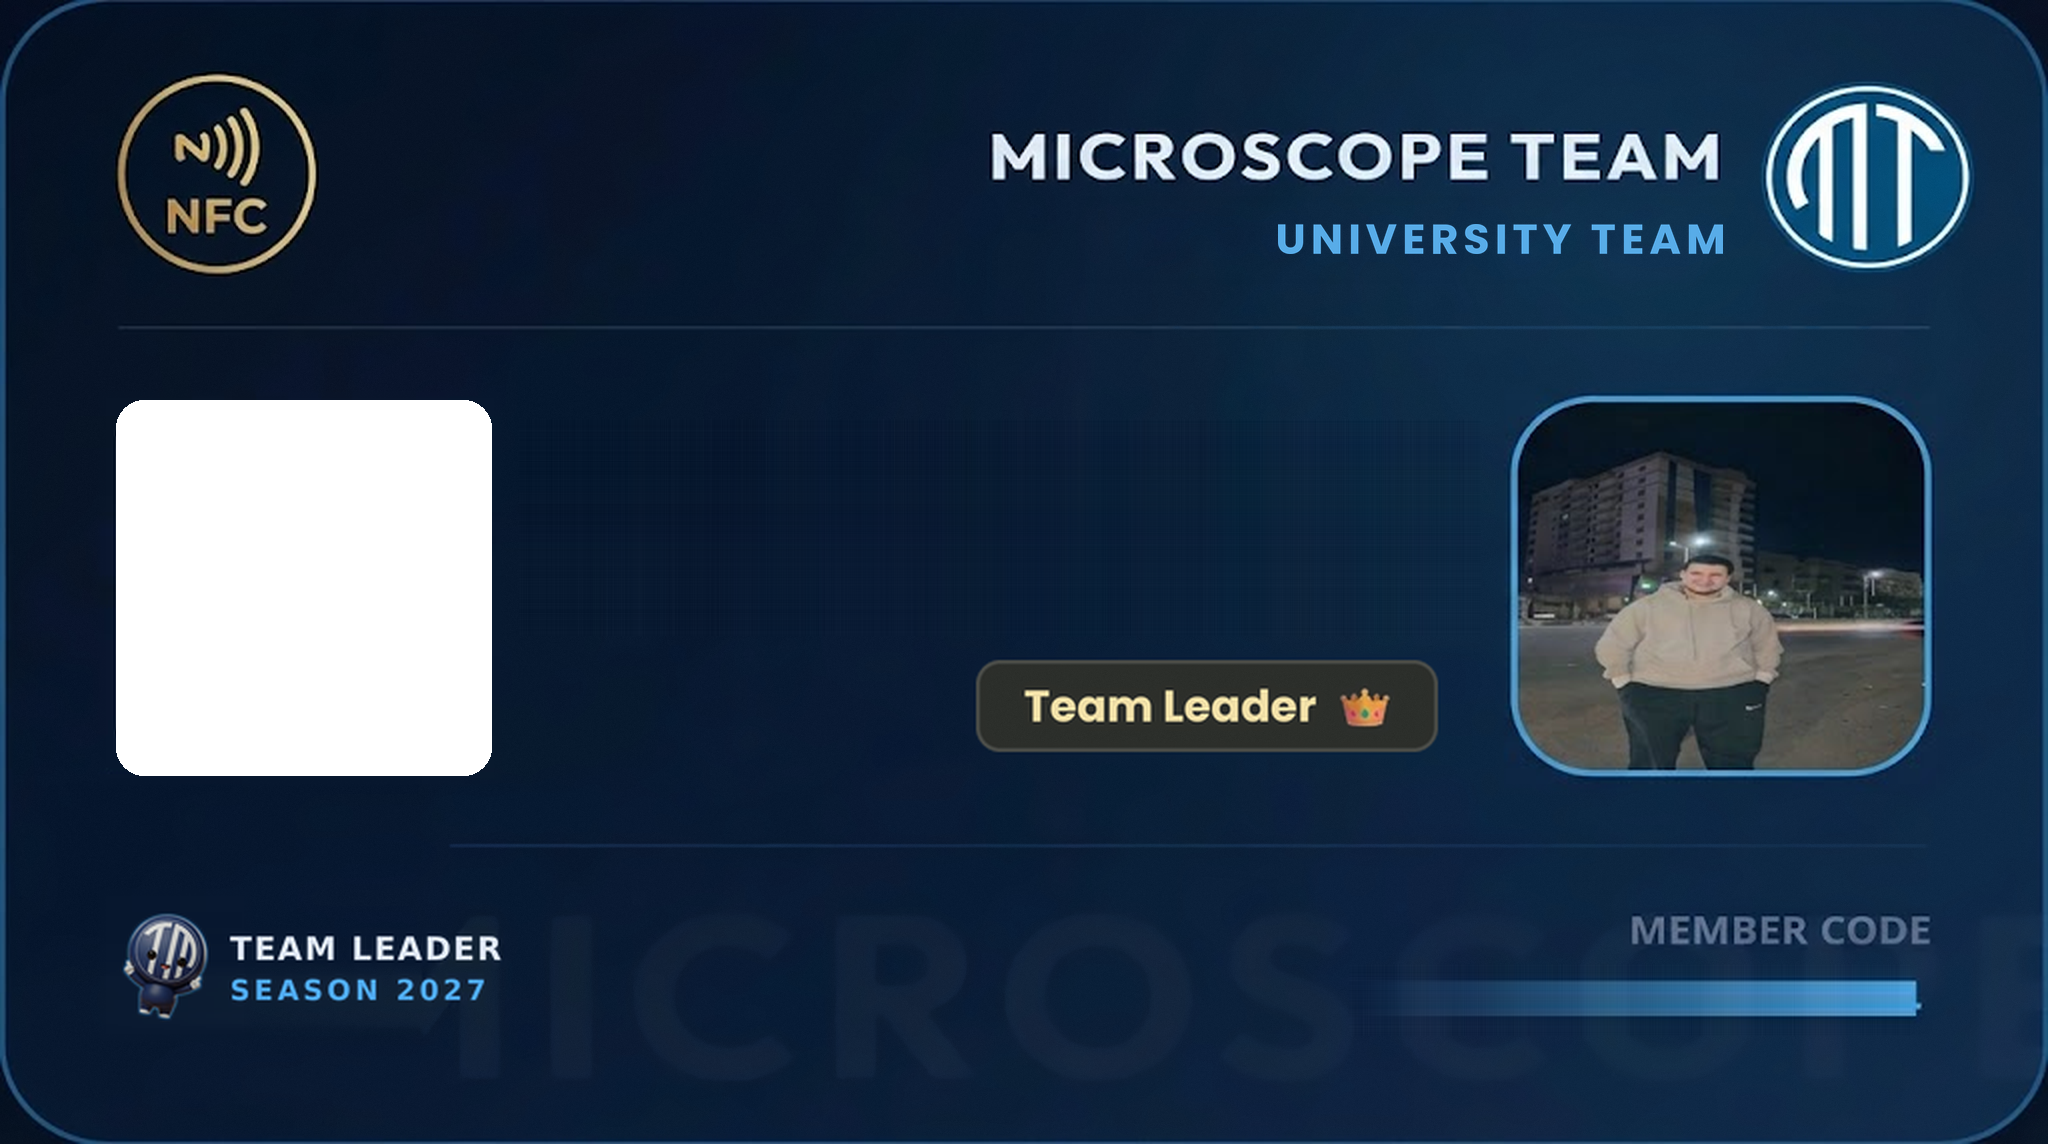
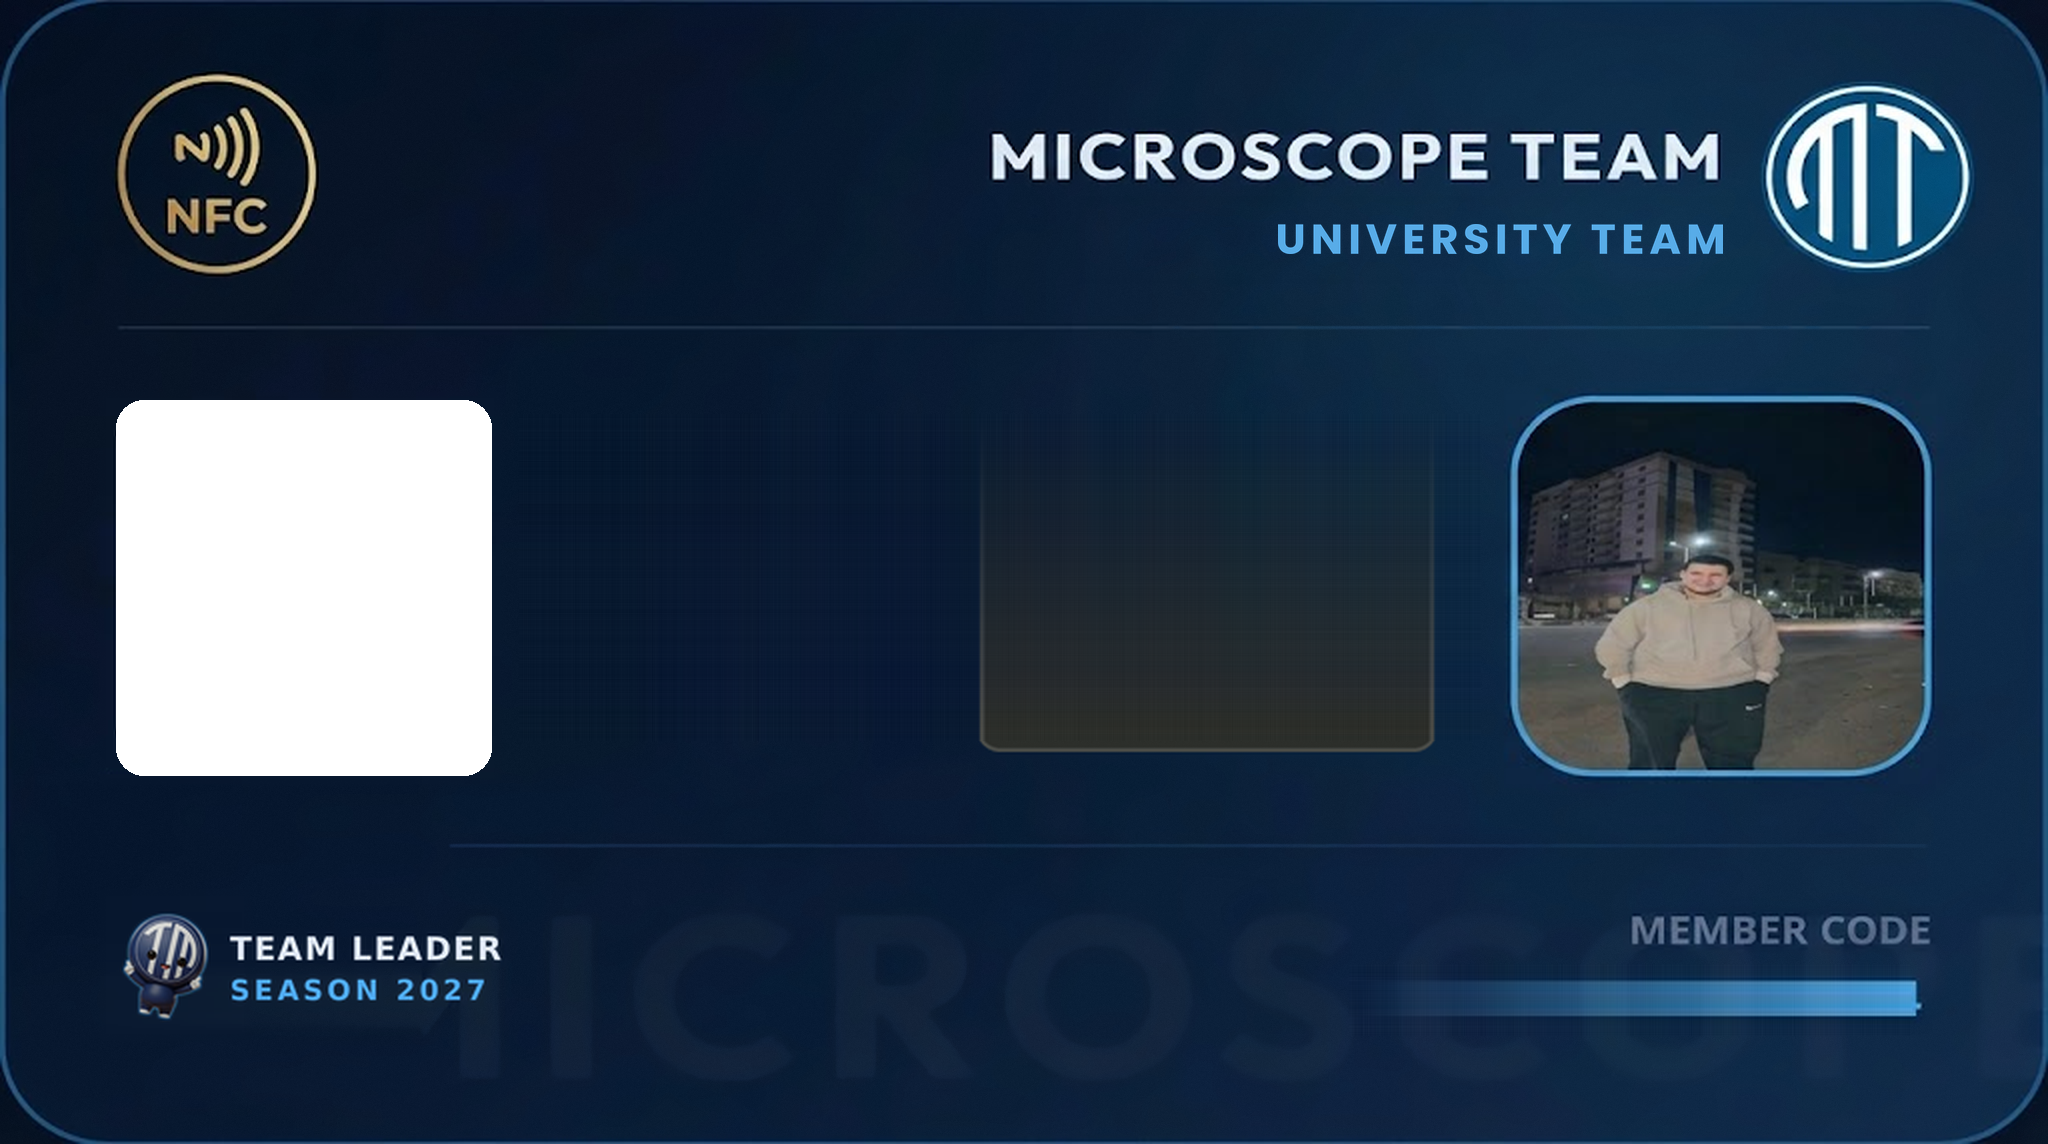
feat: add member registration form and digital ID card assets

Changed region(s): [[0.4688, 0.5201, 0.7188, 0.6425]]

diff --git a/web/members_form.html b/web/members_form.html
@@ -956,7 +956,7 @@ document.getElementById('memberForm').addEventListener('submit', async function(
     if (cPill) cPill.textContent = currentConfig.badge;
 
     // Dynamic QR Code generation
-    const qrData = encodeURIComponent(`https://t.me/Microscope_Support_bot?start=mem_${memberId}`);
+    const qrData = encodeURIComponent(`https://linktr.ee/qr/f1b365d4-eac8-4fdc-8f9c-c0ea860a319f`);
     const qrImg = document.getElementById('cardQrCode');
     if (qrImg) {
       qrImg.src = `https://api.qrserver.com/v1/create-qr-code/?size=300x300&data=${qrData}`;
